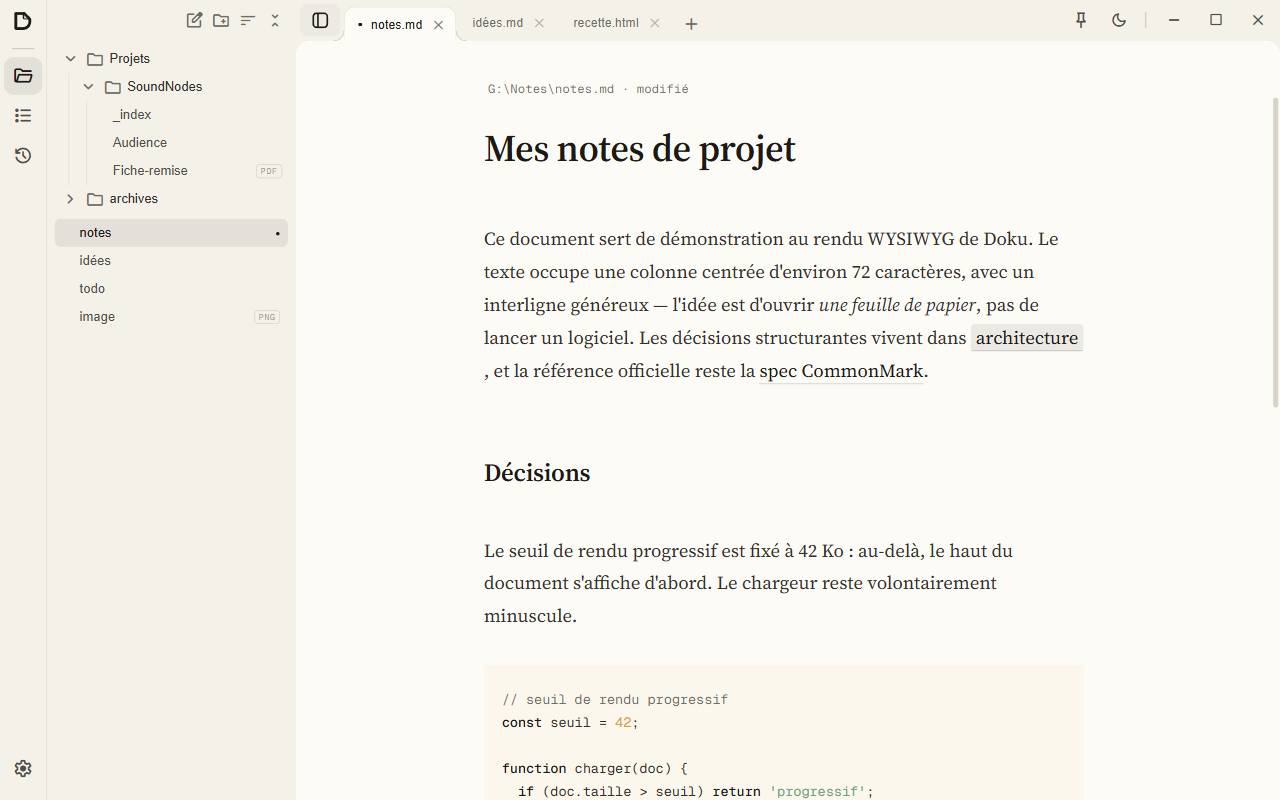
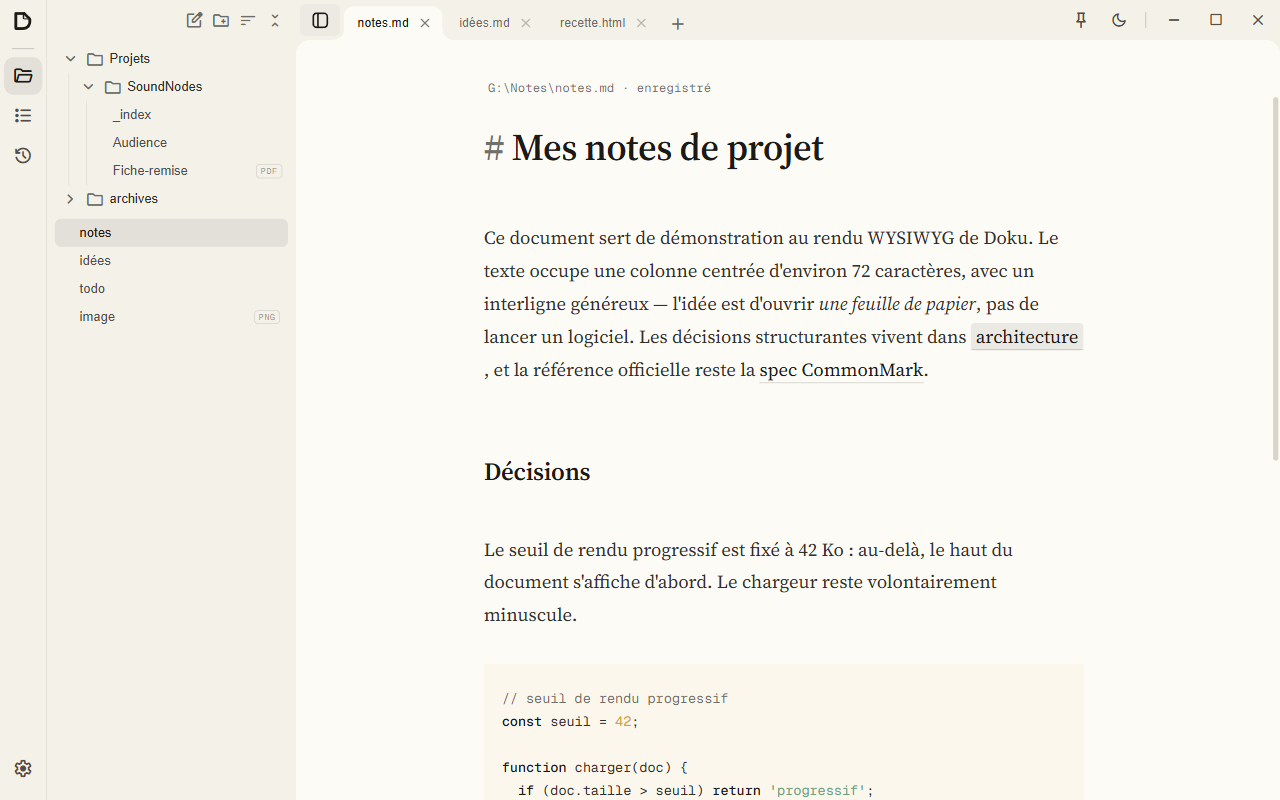
update: retire le filet page/onglets

diff --git a/src/components/TitleBar.svelte b/src/components/TitleBar.svelte
@@ -153,29 +153,27 @@
   .tab:hover { background: var(--surface-hover); color: var(--ink-2); }
   .tab.active {
     background: var(--cream-content);
-    border-color: var(--line-1);
     color: var(--ink);
     font-weight: 500;
     z-index: 2;
-    margin-bottom: -1px;
   }
   .tab.active:hover { background: var(--cream-content); }
   .tab.active::before,
   .tab.active::after {
     content: '';
     position: absolute;
-    bottom: -1px;
+    bottom: 0;
     width: 11px;
     height: 11px;
     pointer-events: none;
   }
   .tab.active::before {
     left: -11px;
-    background: radial-gradient(circle at top left, transparent 9.5px, var(--line-1) 9.5px, var(--line-1) 10.5px, var(--cream-content) 10.5px);
+    background: radial-gradient(circle at top left, transparent 10.5px, var(--cream-content) 10.5px);
   }
   .tab.active::after {
     right: -11px;
-    background: radial-gradient(circle at top right, transparent 9.5px, var(--line-1) 9.5px, var(--line-1) 10.5px, var(--cream-content) 10.5px);
+    background: radial-gradient(circle at top right, transparent 10.5px, var(--cream-content) 10.5px);
   }
 
   .dot { font-size: 9px; color: var(--ink); line-height: 1; margin-right: 1px; }

diff --git a/src/App.svelte b/src/App.svelte
@@ -87,7 +87,6 @@
     flex: 1;
     min-width: 0;
     background: var(--cream-content);
-    border-top: 1px solid var(--line-1);
     border-radius: 14px 14px 0 0;
     overflow: hidden;
     display: flex;